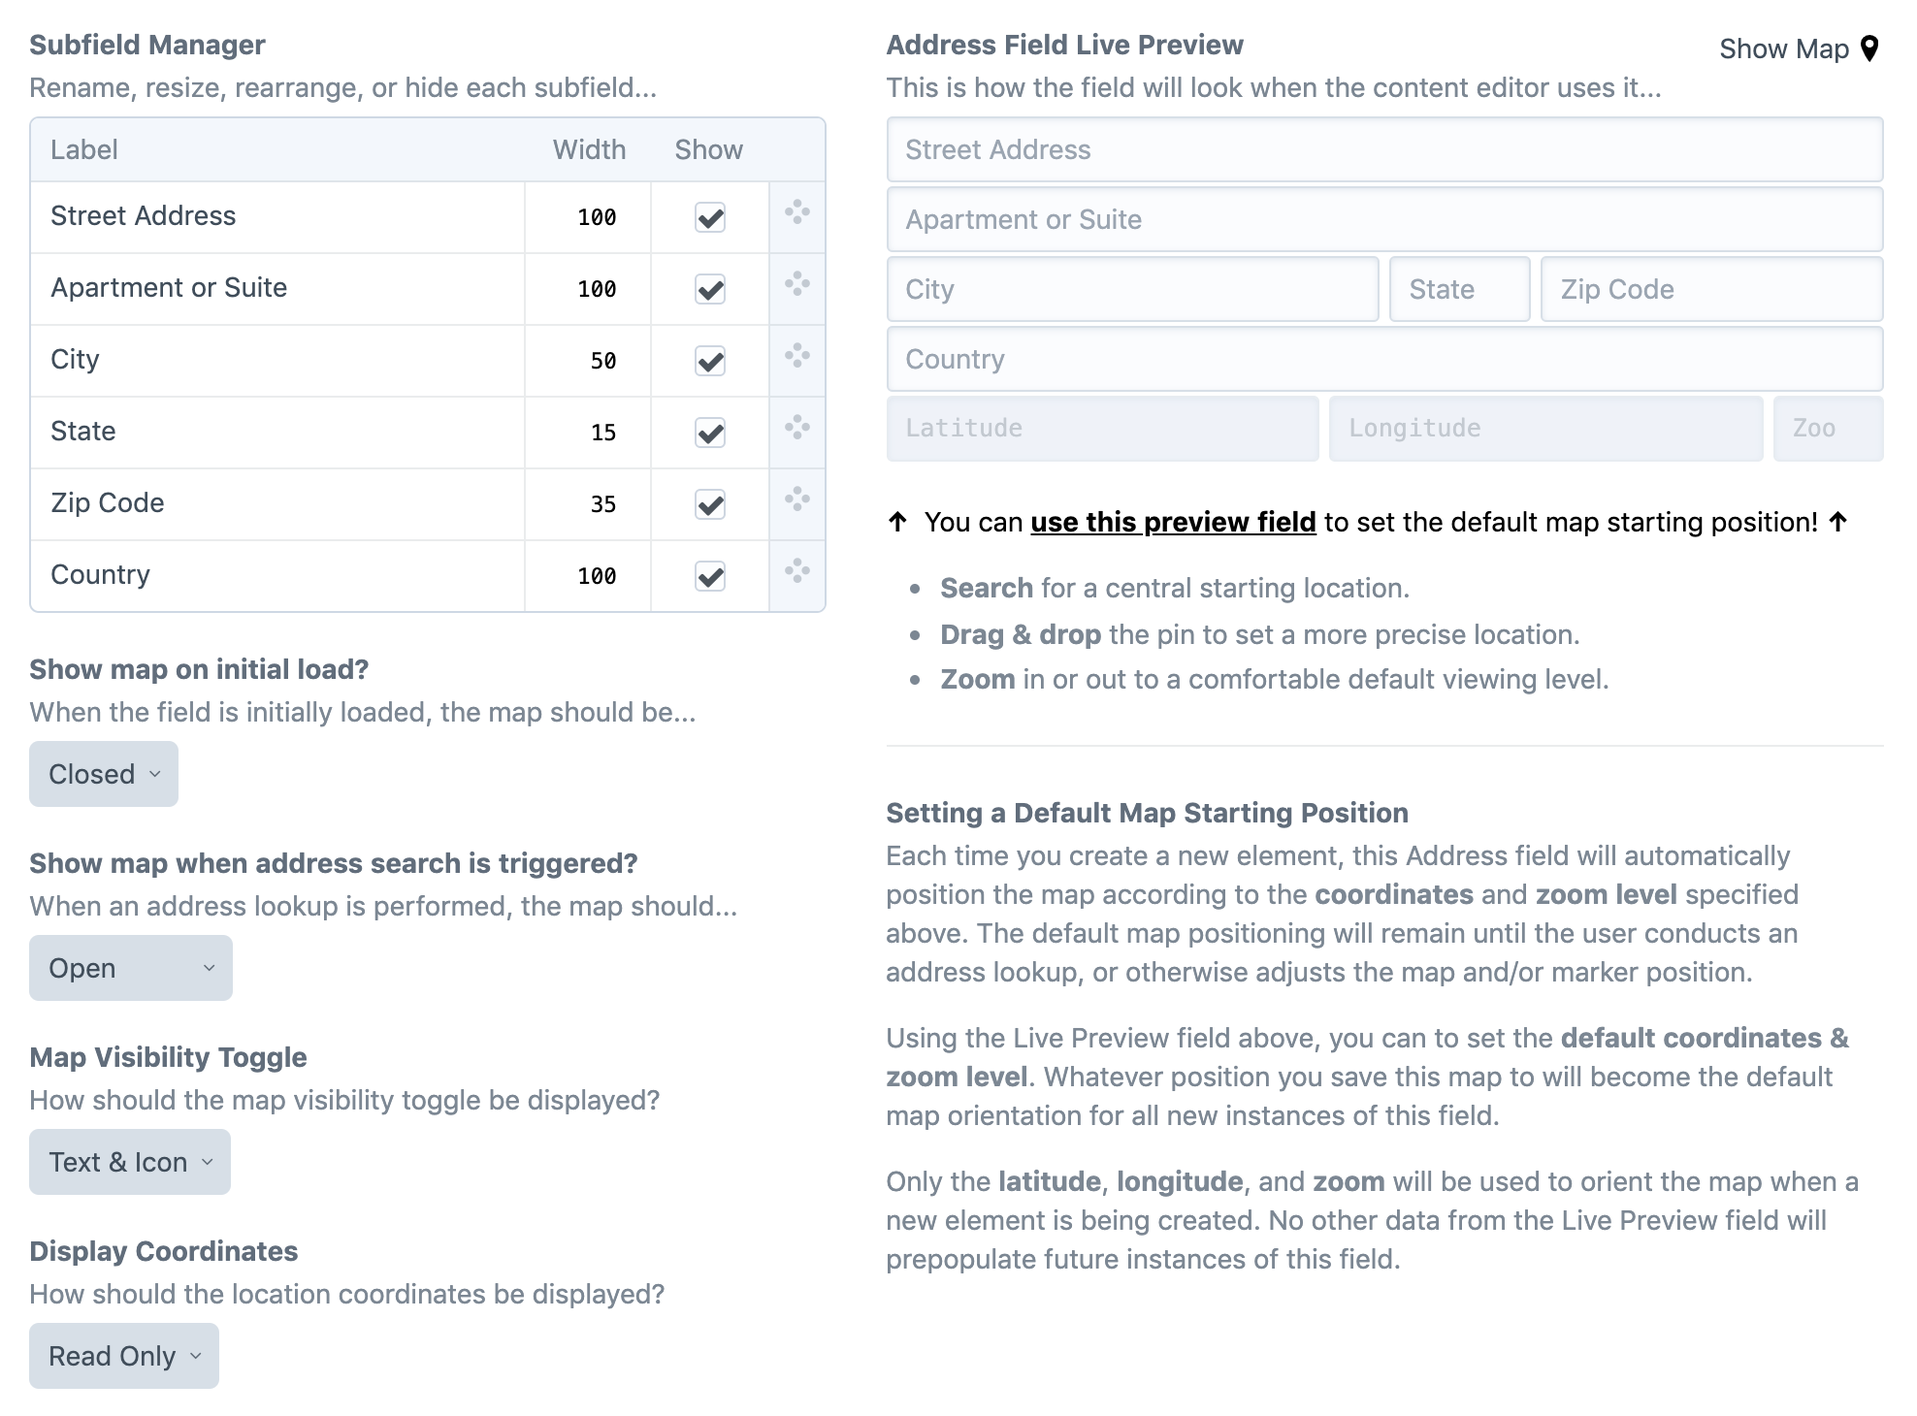
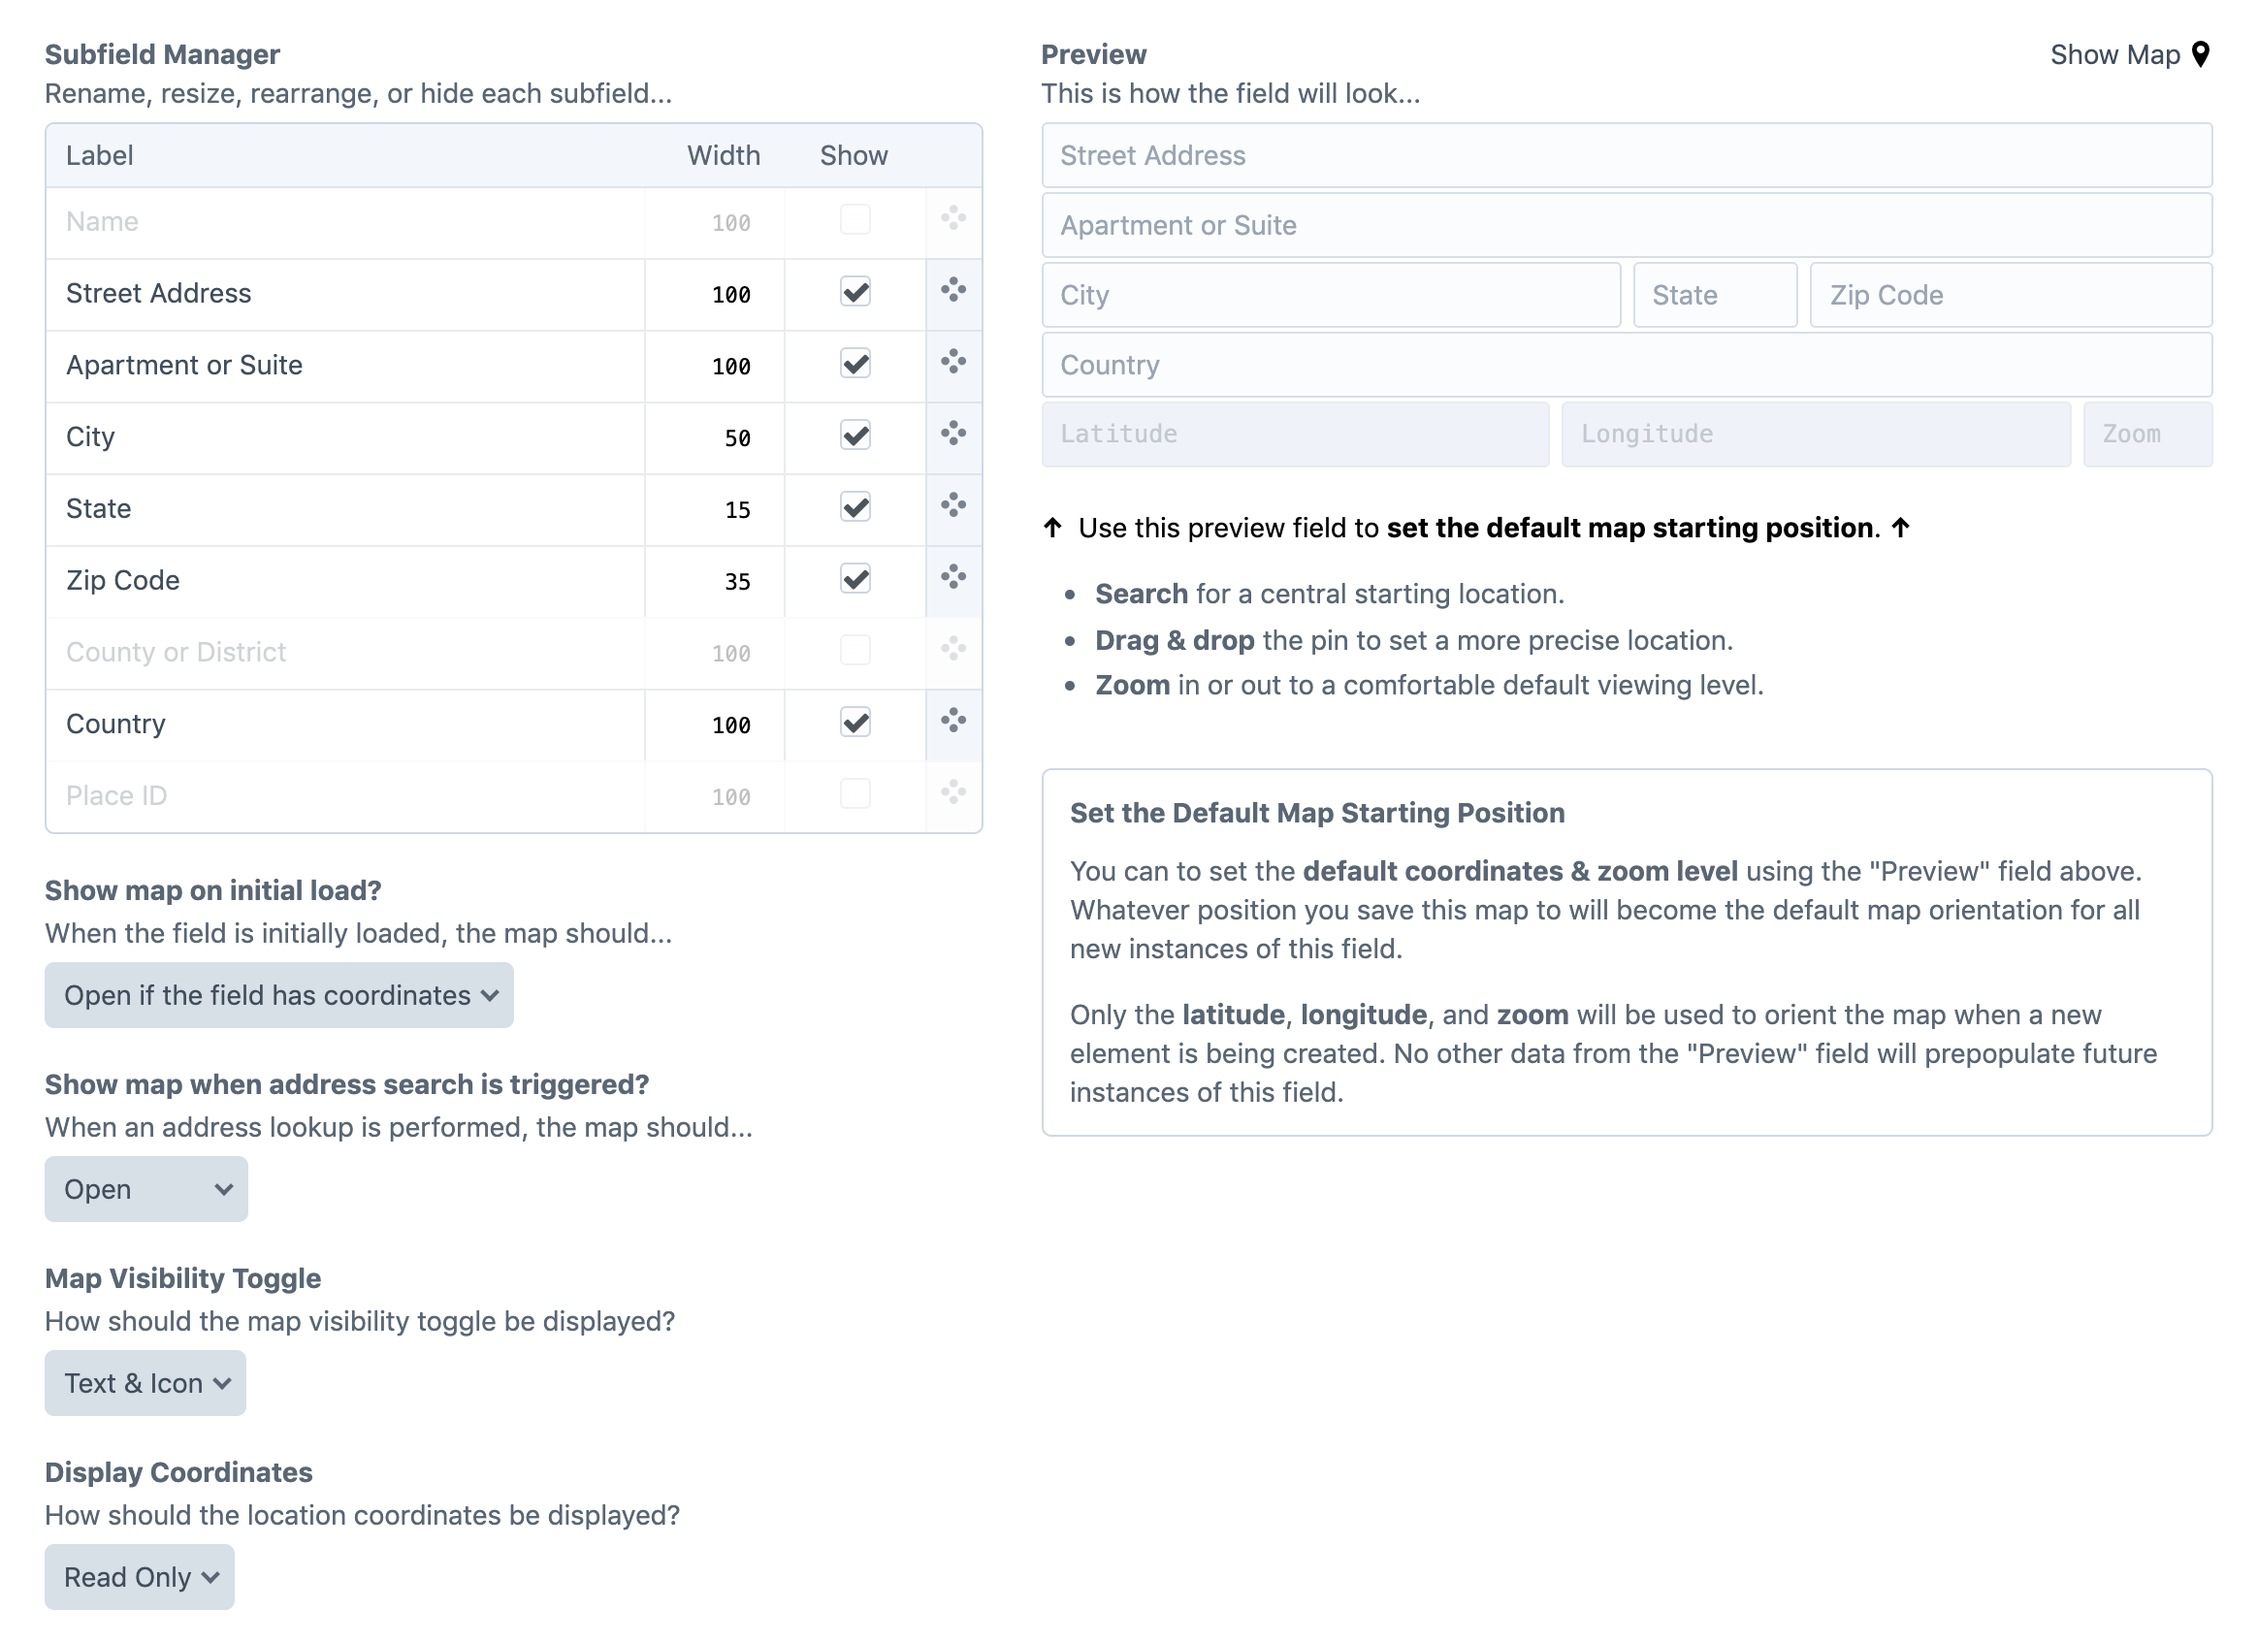
Address field settings improvements

diff --git a/docs/address-field/settings.md b/docs/address-field/settings.md
@@ -33,14 +33,15 @@ Feel free to move these subfields into whatever configuration you see fit!
 
 This dropdown allows you to select how the map should appear when the edit page is initially loaded.
 
- - `Open` - The map will be open when the page is loaded.
- - `Closed` (default) - The map will be closed when the page is loaded.
+- `Open if the field has coordinates` _(default)_ - When the field is fresh, it will be loaded with the map closed. Once coordinates have been saved, the field will be loaded with the map open.
+- `Always start open` - The map will always be open when the page is loaded.
+- `Always start closed` - The map will always be closed when the page is loaded.
 
 ## Show map when address search is triggered?
 
 This dropdown allows you to select how the map should react when an address lookup is performed.
 
- - `Open` (default) - The map will automatically open when a lookup is performed.
+ - `Open` _(default)_ - The map will automatically open when a lookup is performed.
  - `Close` - The map will automatically close when a lookup is performed.
  - `No Change` - The map will not react when a lookup is performed.
 
@@ -52,7 +53,7 @@ The map visibility toggle appears just above the address component subfields, in
 
 You can control how the toggle is displayed by selecting whether to show the text label, icon, both, or neither.
 
- - `Text & Icon` (default) - Show both the text label and icon.
+ - `Text & Icon` _(default)_ - Show both the text label and icon.
  - `Text Only` - Show only the text label.
  - `Icon Only` - Show only the icon.
  - `Hidden` - Neither the text label nor icon are shown.
@@ -62,7 +63,7 @@ You can control how the toggle is displayed by selecting whether to show the tex
 The location coordinates appear directly below the address components subfields, and can be shown in one of three ways.
 
  - `Editable` - The coordinates and zoom fields are directly editable by the content editor.
- - `Read Only` (default) - The values of the coordinates and zoom fields will be visible, but not editable by the content author.
+ - `Read Only` _(default)_ - The values of the coordinates and zoom fields will be visible, but not editable by the content author.
  - `Hidden` - The location coordinates and zoom will not be displayed at all. Note that while the coordinate fields are _visually_ hidden, the data will continue to be saved normally.
 
 If you select `Hidden`, bear in mind that this does not prevent the coordinates or zoom from being saved in the database. The field will still save that data normally, as if the coordinates were actually visible. The coordinates and zoom fields will simply be invisible to the content editor.

diff --git a/docs/address-field/how-it-works.md b/docs/address-field/how-it-works.md
@@ -21,7 +21,7 @@ When searching for a specific address, the Address field will perform an automat
 Selecting an address will automatically populate each of the relevant subfields with that location's data. It will automatically set the values of both the **Latitude** and **Longitude** (even if they are hidden), as well as the current **Zoom** value.
 
 :::warning First field only
-Only the **first** subfield will conduct a lookup. This is usually the "Street Address", but the autocomplete mechanism will be bound to whichever subfield appears first.
+Only the **first** subfield will conduct a lookup. This is often the "Name" or "Street Address", but the autocomplete mechanism will be bound to whichever subfield appears first.
 :::
 
 ## Show or hide the map
